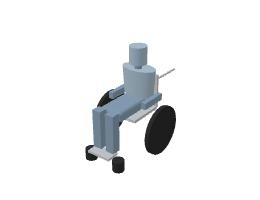
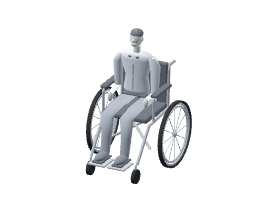
Add detailed architectural people, wheelchair and coloured branching trees

Changed region(s): [[0.3077, 0.12, 0.7385, 0.93]]

diff --git a/mvp/index.html b/mvp/index.html
@@ -11,7 +11,7 @@
 <link rel="stylesheet" href="https://fonts.googleapis.com/css2?family=Inter:wght@400;500;600;700;800&family=Space+Mono:wght@400;700&display=swap">
 <link rel="stylesheet" href="css/structure-study.css?v=structural-study-20261028-1">
 <link rel="stylesheet" href="css/mvp.css?v=light-only-20261028-1">
-<script type="importmap">{"imports":{"./js/study-ui/stage.js?v=light-only-20261028-1":"./js/study-ui/stage.js?v=light-only-20261028-1","three":"https://cdn.jsdelivr.net/npm/three@0.170.0/build/three.module.js","three/addons/":"https://cdn.jsdelivr.net/npm/three@0.170.0/examples/jsm/","../furniture/models.js":"../furniture/models.js?v=furniture-detail-20261027-1","../furniture/geom.js":"../furniture/geom.js?v=furniture-detail-20261027-1","./js/furn3d.js":"./js/furn3d.js?v=furniture-detail-20261027-1","./js/studio-bridge.js":"./js/studio-bridge.js?v=import-feedback-20261027-1"}}</script>
+<script type="importmap">{"imports":{"./js/study-ui/stage.js?v=light-only-20261028-1":"./js/study-ui/stage.js?v=light-only-20261028-1","three":"https://cdn.jsdelivr.net/npm/three@0.170.0/build/three.module.js","three/addons/":"https://cdn.jsdelivr.net/npm/three@0.170.0/examples/jsm/","../furniture/models.js":"../furniture/models.js?v=entourage-20261102-1","../furniture/geom.js":"../furniture/geom.js?v=entourage-20261102-1","./js/furn3d.js":"./js/furn3d.js?v=entourage-20261102-1","./js/studio-bridge.js":"./js/studio-bridge.js?v=import-feedback-20261027-1"}}</script>
 
 <link rel="stylesheet" href="../ui/tokens.css?v=home-palette-20261102-1" data-pc-ui-assets>
 <link rel="stylesheet" href="../ui/components.css?v=light-only-20261028-1" data-pc-ui-assets>
@@ -45,7 +45,7 @@
   </div>
 </header>
 <main id="app" tabindex="-1"></main>
-<script type="importmap">{"imports":{"./js/onboarding.js":"./js/onboarding.js?v=cmp-20261101-1","./js/pages/project.js":"./js/pages/project.js?v=cmp-20261101-1","./js/project-climate.js":"./js/project-climate.js?v=handoff-location-20261029-1","./js/pages/project-settings.js":"./js/pages/project-settings.js?v=handoff-20261028-1","./js/pages/project-map.js":"./js/pages/project-map.js?v=single-world-20261102-1","./js/pages/new-site.js":"./js/pages/new-site.js?v=epw-connected-20261027-3","./js/store.js":"./js/store.js?v=master-models-snow-20261031-3","./js/data.js":"./js/data.js?v=master-models-snow-20261031-3","./js/export3d.js":"./js/export3d.js?v=import-feedback-20261027-1","./js/viewport.js":"./js/viewport.js?v=light-only-20261028-1","./js/pages/workspace-v2.js":"./js/pages/workspace-v2.js?v=dayrec-20261101-2","./js/pages/start-study.js":"./js/pages/start-study.js?v=panel-scroll-20261026-1","./js/study-readiness.js":"./js/study-readiness.js?v=environment-20261028-1","./js/pages/comparison-report.js":"./js/pages/comparison-report.js?v=panel-scroll-20261026-1","./js/comparison-report.js":"./js/comparison-report.js?v=panel-scroll-20261026-1","./js/comparison-report-data.js":"./js/comparison-report-data.js?v=environment-20261028-1","./js/comparison-evidence.js":"./js/comparison-evidence.js?v=handoff-20261028-1","./js/pages/home.js":"./js/pages/home.js?v=light-only-20261028-1","./js/app.js":"./js/app.js?v=guest-start-20261102-1","./js/pages/simulations.js":"./js/pages/simulations.js?v=master-models-snow-20261031-5","./js/pages/environment-study.js":"./js/pages/environment-study.js?v=light-only-20261028-1","./js/pages/structure-study.js":"./js/pages/structure-study.js?v=handoff-20261028-1","./js/pages/sim-engine.js":"./js/pages/sim-engine.js?v=wsonly-20261101-6","./js/pages/admin.js":"./js/pages/admin.js?v=founder-20261102-1","./js/pages/pricing.js":"./js/pages/pricing.js?v=founder-20261102-1","./js/batch.js":"./js/batch.js?v=panel-scroll-20261026-1","./js/beta-access.js":"./js/beta-access.js?v=founder-20261102-1","./js/cloud.js":"./js/cloud.js?v=founder-20261102-1","./js/pages/results.js":"./js/pages/results.js?v=wsonly-20261101-4","./js/pages/account.js":"./js/pages/account.js?v=public-launch-20261031-1","./js/pages/login.js":"./js/pages/login.js?v=public-launch-20261031-1","./js/pages/legal.js":"./js/pages/legal.js?v=public-launch-20261031-1","./js/pages/resources.js":"./js/pages/resources.js?v=free-res-20261101-1","./js/simulation-presentation.js":"./js/simulation-presentation.js?v=master-models-snow-20261031-3","./js/capabilities.js":"./js/capabilities.js?v=master-models-snow-20261031-3","./js/parameters.js":"./js/parameters.js?v=master-models-snow-20261031-3","./js/project-contract.js":"./js/project-contract.js?v=master-models-snow-20261031-3","./js/drift-wall.js":"./js/drift-wall.js?v=drift-compat-20261102-1","./js/workspace-chrome.js":"./js/workspace-chrome.js?v=master-models-snow-20261031-4","./js/pages/dashboard.js":"./js/pages/dashboard.js?v=public-launch-20261031-1","./js/pages/marketing-info.js":"./js/pages/marketing-info.js?v=founder-20261102-1","./js/pages/resource-tool.js":"./js/pages/resource-tool.js?v=resource-tools-20261031-1","./js/public-chrome.js":"./js/public-chrome.js?v=guest-start-20261102-1","./js/site-content.js":"./js/site-content.js?v=founder-20261102-1","./js/pages/founder.js":"./js/pages/founder.js?v=founder-20261102-1"}}</script>
+<script type="importmap">{"imports":{"./js/furn3d.js":"./js/furn3d.js?v=entourage-20261102-1","../furniture/models.js?v=furniture-detail-20261027-1":"../furniture/models.js?v=entourage-20261102-1","../furniture/geom.js?v=furniture-detail-20261027-1":"../furniture/geom.js?v=entourage-20261102-1","./js/onboarding.js":"./js/onboarding.js?v=cmp-20261101-1","./js/pages/project.js":"./js/pages/project.js?v=cmp-20261101-1","./js/project-climate.js":"./js/project-climate.js?v=handoff-location-20261029-1","./js/pages/project-settings.js":"./js/pages/project-settings.js?v=handoff-20261028-1","./js/pages/project-map.js":"./js/pages/project-map.js?v=single-world-20261102-1","./js/pages/new-site.js":"./js/pages/new-site.js?v=epw-connected-20261027-3","./js/store.js":"./js/store.js?v=master-models-snow-20261031-3","./js/data.js":"./js/data.js?v=master-models-snow-20261031-3","./js/export3d.js":"./js/export3d.js?v=import-feedback-20261027-1","./js/viewport.js":"./js/viewport.js?v=light-only-20261028-1","./js/pages/workspace-v2.js":"./js/pages/workspace-v2.js?v=entourage-20261102-1","./js/pages/start-study.js":"./js/pages/start-study.js?v=panel-scroll-20261026-1","./js/study-readiness.js":"./js/study-readiness.js?v=environment-20261028-1","./js/pages/comparison-report.js":"./js/pages/comparison-report.js?v=panel-scroll-20261026-1","./js/comparison-report.js":"./js/comparison-report.js?v=panel-scroll-20261026-1","./js/comparison-report-data.js":"./js/comparison-report-data.js?v=environment-20261028-1","./js/comparison-evidence.js":"./js/comparison-evidence.js?v=handoff-20261028-1","./js/pages/home.js":"./js/pages/home.js?v=light-only-20261028-1","./js/app.js":"./js/app.js?v=guest-start-20261102-1","./js/pages/simulations.js":"./js/pages/simulations.js?v=master-models-snow-20261031-5","./js/pages/environment-study.js":"./js/pages/environment-study.js?v=light-only-20261028-1","./js/pages/structure-study.js":"./js/pages/structure-study.js?v=handoff-20261028-1","./js/pages/sim-engine.js":"./js/pages/sim-engine.js?v=wsonly-20261101-6","./js/pages/admin.js":"./js/pages/admin.js?v=founder-20261102-1","./js/pages/pricing.js":"./js/pages/pricing.js?v=founder-20261102-1","./js/batch.js":"./js/batch.js?v=panel-scroll-20261026-1","./js/beta-access.js":"./js/beta-access.js?v=founder-20261102-1","./js/cloud.js":"./js/cloud.js?v=founder-20261102-1","./js/pages/results.js":"./js/pages/results.js?v=wsonly-20261101-4","./js/pages/account.js":"./js/pages/account.js?v=public-launch-20261031-1","./js/pages/login.js":"./js/pages/login.js?v=public-launch-20261031-1","./js/pages/legal.js":"./js/pages/legal.js?v=public-launch-20261031-1","./js/pages/resources.js":"./js/pages/resources.js?v=free-res-20261101-1","./js/simulation-presentation.js":"./js/simulation-presentation.js?v=master-models-snow-20261031-3","./js/capabilities.js":"./js/capabilities.js?v=master-models-snow-20261031-3","./js/parameters.js":"./js/parameters.js?v=master-models-snow-20261031-3","./js/project-contract.js":"./js/project-contract.js?v=master-models-snow-20261031-3","./js/drift-wall.js":"./js/drift-wall.js?v=drift-compat-20261102-1","./js/workspace-chrome.js":"./js/workspace-chrome.js?v=master-models-snow-20261031-4","./js/pages/dashboard.js":"./js/pages/dashboard.js?v=public-launch-20261031-1","./js/pages/marketing-info.js":"./js/pages/marketing-info.js?v=founder-20261102-1","./js/pages/resource-tool.js":"./js/pages/resource-tool.js?v=resource-tools-20261031-1","./js/public-chrome.js":"./js/public-chrome.js?v=guest-start-20261102-1","./js/site-content.js":"./js/site-content.js?v=founder-20261102-1","./js/pages/founder.js":"./js/pages/founder.js?v=founder-20261102-1"}}</script>
 <script type="module">import "./js/app.js";</script>
 <script type="module" src="../ui/laptop-layout.js?v=study-unified-20261028-1"></script>
 <link rel="stylesheet" href="css/resources.css?v=resource-tools-20261031-1">

diff --git a/furniture/site-assets.js b/furniture/site-assets.js
@@ -1,0 +1,109 @@
+// Original lightweight architectural entourage. Z-up millimetres; faces -Y.
+// Deterministic geometry keeps saved project dimensions and exports reproducible.
+const TAU=Math.PI*2;
+function loft(B,name,mat,rings,seg=12,layer='Body'){
+ if(rings.at(-1)[2]<rings[0][2])rings=[...rings].reverse();
+ B.parts.push({kind:'loft',name,layer,mat,rings,seg,cx:0,cy:0,cz:0});
+}
+function oval(B,name,mat,x,y,z,rx,ry,rz,layer='Body',seg=12){
+ const rings=Array.from({length:9},(_,i)=>{const a=-Math.PI/2+i*Math.PI/8,r=Math.max(.001,Math.cos(a));return[x,y,z+Math.sin(a)*rz,rx*r,ry*r];});
+ loft(B,name,mat,rings,seg,layer);
+}
+function limb(B,name,mat,points,radii){
+ loft(B,name,mat,points.map((p,i)=>[...p,radii[i],radii[i]*.85]),10);
+}
+function upperBody(B,H,{hip=.51,shoulder=.81,head=.91,y=0,lean=0,child=false,seated=false}={}){
+ const z=hip*H,t=shoulder*H,skin='personSkin',cloth='person';
+ loft(B,'Tailored shirt',cloth,[[0,y,z,.094*H,.055*H],[0,y,z+.035*H,.1*H,.062*H],[0,y+lean*.4,z+(t-z)*.45,.085*H,.053*H],[0,y+lean*.9,t-.035*H,.128*H,.063*H],[0,y+lean,t,.115*H,.052*H],[0,y+lean,t+.012*H,.035*H,.031*H]],16);
+ B.cyl('Neck','Body',skin,0,y+lean,t,.026*H,(seated?.06:.04)*H,{seg:12});
+ const hy=y+lean-.006*H,hz=head*H;
+ oval(B,'Head',skin,0,hy,hz,.045*H,.051*H,(1-head)*H);
+ oval(B,'Jaw',skin,0,hy-.016*H,hz-.035*H,.034*H,.036*H,.025*H);
+ oval(B,'Hair','personHair',0,hy+.005*H,hz+(1-head)*H*.45,.046*H,.05*H,(1-head)*H*.55);
+ oval(B,'Nose',skin,0,hy-.053*H,hz-.005*H,.01*H,.016*H,.012*H);
+ for(const s of [-1,1])oval(B,'Ear',skin,s*.045*H,hy,hz-.002*H,.008*H,.012*H,.017*H);
+ for(const s of [-1,1]){
+  const shoulderP=[s*.123*H,y+lean,t-.018*H];
+  const elbow=[s*.152*H,y-(s>0?.025:-.015)*H, seated?z+.03*H:.635*H];
+  const wrist=[s*.14*H,y-(seated?.14:.035)*H,seated?z+.012*H:.53*H];
+  limb(B,'Shirt sleeve',cloth,[[s*.112*H,y+lean,t-.015*H],[s*.145*H,y+lean*.4,t-.075*H],elbow],[.037*H,.038*H,.029*H]);
+  limb(B,'Forearm',skin,[elbow,[(elbow[0]+wrist[0])/2,(elbow[1]+wrist[1])/2,(elbow[2]+wrist[2])/2],wrist],[.027*H,.024*H,.018*H]);
+  oval(B,'Hand',skin,wrist[0],wrist[1],wrist[2]-.02*H,.02*H,.018*H,.036*H);
+  // Separate collar halves, button placket and hem make the body read as clothing.
+  B.prism('Shirt collar','Clothing','personTrim','xy',[[s*.008*H,y-.034*H],[s*.042*H,y-.053*H],[s*.025*H,y-.067*H]],t-.012*H,.009*H);
+ }
+ B.tube('Shirt placket','Clothing','personTrim',[[0,y-.063*H,z+.045*H],[0,y+lean-.058*H,t-.025*H]],.0025*H);
+ for(let i=0;i<4;i++)oval(B,'Shirt button','personTrim',0,y-.065*H+lean*i/4,z+.075*H+i*(t-z-.1*H)/4,.003*H,.002*H,.003*H,'Clothing',8);
+ if(!child)B.box('Belt','Clothing','personTrim',0,y,z-.009*H,.184*H,.112*H,.012*H,{r:.005*H});
+}
+export function standingFigure(B,H,o={}){
+ const child=!!o.headR,elderly=!!o.stoop,hip=child?.48:.51,shoulder=child?.79:.83,head=child?.905:.935,lean=elderly?-.03*H:0;
+ upperBody(B,H,{hip,shoulder,head,lean,child});
+ for(const s of [-1,1]){
+  const step=s*.025*H,x=s*.052*H;
+  limb(B,'Trouser leg','personDk',[[x,0,hip*H],[x,step*.6,.43*H],[x,step,.29*H],[x,step*.8,.17*H],[x,step,.045*H]],[.056*H,.05*H,.037*H,.033*H,.029*H]);
+  B.box('Shoe sole','Clothing','personTrim',x,step-.025*H,0,.07*H,.145*H,.013*H,{r:.006*H});
+  oval(B,'Shoe upper','personShoe',x,step-.025*H,.028*H,.037*H,.075*H,.025*H,'Clothing');
+ }
+ if(elderly){
+  // A restrained lean, silver hair and glasses, without exaggerated frailty.
+  const hz=head*H,hy=lean-.006*H;
+  for(const p of B.parts)if(p.name==='Hair')p.mat='personSilver';
+  for(const s of [-1,1])B.tube('Glasses','Clothing','personTrim',Array.from({length:13},(_,i)=>{const a=i*TAU/12;return[s*.022*H+Math.cos(a)*.017*H,hy-.052*H,hz+.006*H+Math.sin(a)*.012*H];}),.0015*H);
+  B.tube('Glasses bridge','Clothing','personTrim',[[-.006*H,hy-.053*H,hz+.006*H],[.006*H,hy-.053*H,hz+.006*H]],.0015*H);
+ }
+ return B.parts;
+}
+export function wheelchairFigure(B,H){
+ const wr=300;
+ B.box('Seat cushion','Chair','personTrim',0,0,480,450,430,50,{r:20});
+ B.box('Upholstered back','Chair','personTrim',0,220,520,440,50,380,{r:18});
+ for(const s of [-1,1]){
+  const x=s*350;
+  const ring=(name,r,mat,t)=>B.prism(name,'Wheels',mat,'yz',Array.from({length:40},(_,i)=>[85+r*Math.cos(i*TAU/40),wr+r*Math.sin(i*TAU/40)]),x-t/2,t,[Array.from({length:40},(_,i)=>[85+(r-14)*Math.cos(-i*TAU/40),wr+(r-14)*Math.sin(-i*TAU/40)])]);
+  ring('Pneumatic tyre',wr,'tyre',35);ring('Wheel rim',wr-20,'steel',16);ring('Push rim',wr-45,'steel',12);
+  for(let i=0;i<12;i++){const a=i*TAU/12;B.tube('Wheel spoke','Wheels','steel',[[x,85,wr],[x,85+(wr-23)*Math.cos(a),wr+(wr-23)*Math.sin(a)]],3);}
+  oval(B,'Axle hub','steel',x,85,wr,22,22,22,'Wheels');
+  B.tube('Frame rail','Chair','steel',[[s*225,-400,170],[s*225,-170,450],[s*225,200,480],[s*225,225,880],[s*225,330,880]],14);
+  B.tube('Armrest support','Chair','steel',[[s*245,-120,480],[s*245,-120,700],[s*245,210,700]],12);
+  B.box('Arm pad','Chair','personTrim',s*245,30,700,65,310,28,{r:12});
+  B.prism('Front caster','Wheels','tyre','yz',Array.from({length:20},(_,i)=>[-420+65*Math.cos(i*TAU/20),65+65*Math.sin(i*TAU/20)]),s*220-15,30);
+  B.tube('Caster fork','Chair','steel',[[s*220,-420,65],[s*220,-420,160],[s*220,-340,240]],9);
+  B.box('Footplate','Chair','steel',s*95,-470,155,170,190,18,{r:8});
+ }
+ B.tube('Cross brace','Chair','steel',[[-225,-140,220],[225,180,470]],12);B.tube('Cross brace','Chair','steel',[[225,-140,220],[-225,180,470]],12);
+ // Rider dimensions scale above the fixed seat so the feet remain on footplates.
+ const torsoScale=H;
+ upperBody(B,torsoScale,{hip:650/torsoScale,shoulder:(H-230)/torsoScale,head:.935,y:45,seated:true});
+ for(const s of [-1,1]){
+  limb(B,'Seated trouser leg','personDk',[[s*95,80,585],[s*95,-120,590],[s*95,-340,560],[s*95,-355,380],[s*95,-390,215]],[80,75,65,49,43]);
+  B.box('Shoe sole','Clothing','personTrim',s*95,-450,175,100,200,18,{r:8});oval(B,'Shoe','personShoe',s*95,-450,210,52,100,35,'Clothing');
+ }
+ return B.parts;
+}
+export function landscapeTree(B,H,C,getBounds){
+ let state=137;const rand=()=>{state=(Math.imul(state,1664525)+1013904223)>>>0;return state/4294967296;};
+ const R=C/2,tr=Math.max(60,C*.027);
+ loft(B,'Tapered trunk','trunk',[[0,0,0,tr*1.35,tr*1.2],[tr*.2,0,H*.2,tr,tr*.9],[-tr*.15,tr*.2,H*.42,tr*.65,tr*.6],[0,0,H*.66,tr*.25,tr*.23]],12,'Tree');
+ for(let i=0;i<22;i++){
+  const a=i*2.399963,z=H*(.46+.43*rand()),spread=Math.sin((z/H-.35)/.65*Math.PI)*R*.72;
+  const x=Math.cos(a)*spread,y=Math.sin(a)*spread,base=[0,0,H*(.29+.18*rand())];
+  B.tube('Primary branch','Tree','trunk',[base,[x*.45,y*.45,z*.8],[x,y,z]],tr*(.18+.12*rand()));
+  const clusterR=R*(.19+.09*rand());
+  for(let j=0;j<48;j++){
+   const az=rand()*TAU,u=rand()*2-1,r=clusterR*Math.cbrt(rand()),q=Math.sqrt(1-u*u);
+   const lx=x+Math.cos(az)*q*r,ly=y+Math.sin(az)*q*r,lz=Math.min(H-12,z+u*r*.8),sz=Math.min(C*.035,140)*( .65+rand()*.7),ang=rand()*TAU;
+   const along=[Math.cos(ang)*sz,Math.sin(ang)*sz],side=[-along[1]*.4,along[0]*.4];
+   // Folded leaf blades, green tonal variation and air gaps, rather than solid balls.
+   const points=[[lx-along[0],ly-along[1]],[lx+side[0],ly+side[1]],[lx+along[0],ly+along[1]],[lx-side[0],ly-side[1]]];
+   B.prism('Leaf blade','Foliage',['leaf','leafDk','leafLight','leafMid'][Math.floor(rand()*4)],'xy',points,Math.max(H*.32,lz),Math.max(2,sz*.05));
+  }
+ }
+ const b=getBounds(B.parts),sx=C/(b[3]-b[0]),sy=C/(b[4]-b[1]),sz=H/(b[5]-b[2]);
+ for(const p of B.parts){
+  if(p.kind==='loft')p.rings=p.rings.map(([x,y,z,rx,ry])=>[x*sx,y*sy,z*sz,rx*sx,ry*sy]);
+  else if(p.kind==='tube'){p.pts=p.pts.map(([x,y,z])=>[x*sx,y*sy,z*sz]);p.r*=Math.min(sx,sy,sz);}
+  else if(p.kind==='prism'){p.pts=p.pts.map(([x,y])=>[x*sx,y*sy]);p.a0*=sz;p.t*=sz;}
+ }
+ return B.parts;
+}

diff --git a/furniture/models.js b/furniture/models.js
@@ -1,8 +1,9 @@
+import {standingFigure,wheelchairFigure,landscapeTree} from './site-assets.js?v=entourage-20261102-1';
 // PlotCloud furniture configurator — parametric base models.
 // Units: millimetres. Axes: Z up, X = width, Y = depth, front faces -Y.
 // After building, every model is moved so the origin sits at the bottom centre of its footprint.
-import { refineFurniture, DETAIL_FAMILIES, STORAGE_FAMILIES } from './furniture-details.js?v=furniture-detail-20261027-1';
-import { studioModels } from './studio-models.js?v=furniture-detail-20261027-1';
+import { refineFurniture, DETAIL_FAMILIES, STORAGE_FAMILIES } from './furniture-details.js?v=entourage-20261102-1';
+import { studioModels } from './studio-models.js?v=entourage-20261102-1';
 
 export const COLORS = {
   fabric: [
@@ -57,6 +58,7 @@ export function makeBuilder() {
 }
 
 function partBounds(p) {
+  if(p.kind==='loft'){const xs=p.rings.map(q=>[q[0]-q[3],q[0]+q[3]]).flat(),ys=p.rings.map(q=>[q[1]-q[4],q[1]+q[4]]).flat(),zs=p.rings.map(q=>q[2]);return[p.cx+Math.min(...xs),p.cy+Math.min(...ys),p.cz+Math.min(...zs),p.cx+Math.max(...xs),p.cy+Math.max(...ys),p.cz+Math.max(...zs)];}
   if(p.kind==='lathe'){const r=Math.max(...p.profile.map(q=>q[0])),zs=p.profile.map(q=>q[1]);return[p.cx-r,p.cy-r*p.depthScale,p.cz+Math.min(...zs),p.cx+r,p.cy+r*p.depthScale,p.cz+Math.max(...zs)];}
   if (p.kind === 'prism') {
     const us = p.pts.map((q) => q[0]), vs = p.pts.map((q) => q[1]);
@@ -871,21 +873,11 @@ export const MODELS = [
 ];
 
 // ===== Accessories (2026-10-19): simple scale-reference pieces — fence, people, pets, vehicles, wall decor, plants, entry. Blocks only, not realistic models. =====
-// People are one fixed light grey-blue, plants one fixed green, so they read at a glance as "not building".
-Object.assign(FIXED_MATS, { person: '#9fb4c6', personDk: '#7f96ab', fur: '#c9b79c', furDk: '#8a7660', car: '#aeb6bd', tyre: '#2b2c2e', leaf: '#5d9448', leafDk: '#47763a', trunk: '#7b5b3c', pot: '#bdb6a8', art: '#cfd8df', gold: '#b8a679' });
+// Neutral architectural people and naturally coloured foliage share the model/export pipeline.
+Object.assign(FIXED_MATS, { person: '#d4d7dc', personDk: '#a6abb3', personSkin:'#deded9', personHair:'#767b82', personSilver:'#c8ccd0', personTrim:'#676d76', personShoe:'#858a92', leafLight:'#87ac57', leafMid:'#6d984d', fur: '#c9b79c', furDk: '#8a7660', car: '#aeb6bd', tyre: '#2b2c2e', leaf: '#5d9448', leafDk: '#47763a', trunk: '#7b5b3c', pot: '#bdb6a8', art: '#cfd8df', gold: '#b8a679' });
 const circ = (r, n = 20) => Array.from({ length: n }, (_, i) => [r * Math.cos(i / n * 2 * Math.PI), r * Math.sin(i / n * 2 * Math.PI)]);
 // a standing figure of overall height H: legs, torso (elliptical from above, like the usual plan symbol), arms, neck, head
-function standingPerson(H, o = {}) {
-  const B = makeBuilder(), hr = (o.headR || 0.062) * H, stoop = (o.stoop || 0) * H;
-  const legH = 0.5 * H, torsoTop = 0.82 * H;
-  for (const sx of [-1, 1]) B.cyl('Leg', 'Body', 'personDk', sx * 0.05 * H, 0, 0, 0.042 * H, legH);
-  B.cyl('Torso', 'Body', 'person', 0, 0, legH, 0.13 * H, torsoTop - legH, { ry: 0.075 * H, taper: 0.86 });
-  for (const sx of [-1, 1]) B.cyl('Arm', 'Body', 'personDk', sx * 0.165 * H, 0, 0.52 * H, 0.027 * H, 0.29 * H);
-  const headH = 2 * hr, neckH = Math.max(0.02 * H, H - headH - torsoTop);
-  B.cyl('Neck', 'Body', 'personDk', 0, -stoop / 2, torsoTop, 0.028 * H, neckH);
-  B.cyl('Head', 'Body', 'person', 0, -stoop, H - headH, hr, headH, { seg: 24 });
-  return B.parts;
-}
+function standingPerson(H,o={}) { return standingFigure(makeBuilder(),H,o); }
 const personModel = (id, name, kw, def, min, max, o = {}) => ({
   id, cat: 'People', group: 'People', kw, name, en: name, colors: [],
   params: [{ k: 'H', label: 'Height', min, max, step: 10, def }],
@@ -939,14 +931,12 @@ function buildRailing(p) {
 }
 function buildPlant(p, tree) {
   const B = makeBuilder(), C = p.crown, H = p.H;
+  if(tree)return landscapeTree(B,H,C,bounds);
   if (!tree) {
     const potR = Math.min(Math.max(C * 0.3, 90), 220), potH = Math.min(H * 0.3, 320);
     B.cyl('Pot', 'Pot', 'pot', 0, 0, 0, potR, potH, { taper: 0.72 });
     B.cyl('Stem', 'Plant', 'trunk', 0, 0, potH, 14, H * 0.4);
     const fy = potH + H * 0.2, fh = H - fy; B.cyl('Foliage low', 'Plant', 'leafDk', 0, 0, fy, C / 2, fh * 0.55, { seg: 20, taper: 0.7 }); B.cyl('Foliage top', 'Plant', 'leaf', 0, 0, fy + fh * 0.45, C * 0.36, fh * 0.55, { seg: 20, taper: 0.55 });
-  } else {
-    const tr = Math.max(80, C * 0.03), th = H * 0.4; B.cyl('Trunk', 'Tree', 'trunk', 0, 0, 0, tr, th, { taper: 1.25 });
-    const ch = H - th * 0.8; B.cyl('Crown low', 'Tree', 'leafDk', 0, 0, th * 0.8, C / 2, ch * 0.6, { seg: 28, taper: 0.75 }); B.cyl('Crown top', 'Tree', 'leaf', 0, 0, th * 0.8 + ch * 0.4, C * 0.34, ch * 0.6, { seg: 28, taper: 0.5 });
   }
   return B.parts;
 }
@@ -981,23 +971,7 @@ function buildDog(p) {
   else { B.box('Haunch', 'Body', 'fur', 0, 120 * s, 0, 260 * s, 300 * s, 260 * s, { r: 70 * s }); B.box('Chest', 'Body', 'fur', 0, -60 * s, 0, 200 * s, 220 * s, 420 * s, { r: 60 * s }); B.box('Head', 'Body', 'fur', 0, -90 * s, 400 * s, 150 * s, 200 * s, 170 * s, { r: 40 * s }); B.box('Tail', 'Body', 'furDk', 0, 300 * s, 0, 40 * s, 120 * s, 40 * s, { r: 15 * s }); }
   return B.parts;
 }
-function buildWheelchair(p) {   // 800 × 1200 mm on the floor; the rider is seated, front towards -y
-  const B = makeBuilder(), W = 800, D = 1200, H = p.H, wr = 300, hr = 105, neckTop = H - 2 * hr, torsoTop = neckTop - 60;
-  B.box('Seat', 'Chair', 'steel', 0, 0, 480, 460, 440, 40, { r: 8 }); B.box('Backrest', 'Chair', 'steel', 0, 230, 500, 460, 30, 420, { r: 8 });
-  for (const sx of [-1, 1]) {
-    B.prism('Wheel', 'Wheels', 'tyre', 'yz', circ(wr, 24).map(([a, b]) => [100 + a, wr + b]), sx > 0 ? W / 2 - 50 : -W / 2, 50);
-    B.cyl('Caster', 'Wheels', 'tyre', sx * 200, -D / 2 + 110, 0, 70, 130);
-    B.tube('Push bar', 'Chair', 'steel', [[sx * 230, 230, 880], [sx * 230, D / 2 - 12, 880]], 12);
-  }
-  B.box('Footrest', 'Chair', 'steel', 0, -D / 2 + 80, 150, 300, 160, 30);
-  B.box('Thighs', 'Body', 'personDk', 0, -120, 520, 300, 520, 130, { r: 40 });
-  for (const sx of [-1, 1]) B.box('Shin', 'Body', 'personDk', sx * 90, -D / 2 + 150, 190, 110, 110, 470);
-  B.cyl('Torso', 'Body', 'person', 0, 170, 650, 221, Math.max(150, torsoTop - 650), { ry: 127, taper: 0.9 });
-  B.cyl('Neck', 'Body', 'personDk', 0, 150, torsoTop, 45, neckTop - torsoTop);
-  B.cyl('Head', 'Body', 'person', 0, 150, neckTop, hr, 2 * hr, { seg: 24 });
-  for (const sx of [-1, 1]) B.box('Arm', 'Body', 'personDk', sx * 235, 100, 600, 60, 340, 80);
-  return B.parts;
-}
+function buildWheelchair(p) { return wheelchairFigure(makeBuilder(),p.H); }
 
 const ACC = [
   { id: 'balcony_rail', cat: 'Outdoor & Fence', group: 'Outdoor & Fence', kw: 'fence railing balcony guard outdoor', name: 'Balcony railing', en: 'Balcony railing', colors: [],

diff --git a/mvp/js/pages/workspace-v2.js b/mvp/js/pages/workspace-v2.js
@@ -29,7 +29,7 @@ import { importModel } from '../viewport.js';
 import { previewImport } from '../import-preview.js?v=ipv-20261031-4';
 import { createViewport2,levelsOf } from '../viewport2.js';
 import { FORMATS, make as makeExport } from '../export3d.js';
-import { MODELS, GROUPS } from '../../../furniture/models.js?v=furniture-detail-20261027-1';   // Plan Studio's parametric furniture: the same ids Plan Studio places
+import { MODELS, GROUPS } from '../../../furniture/models.js?v=entourage-20261102-1';   // Plan Studio's parametric furniture: the same ids Plan Studio places
 import { TOOL_ICONS } from '../tool-icons.js?v=landscape-20261031-1';
 import { toStudio } from '../studio-convert.js';
 
@@ -520,7 +520,7 @@ export function render(app, [pid]) {
     const t0 = siteMode() && UI.panel === 'mass' ? CONTEXT_TOOL : TOOLS[UI.panel], mine = UI.panel === 'furniture' ? myFurn() : null;
     const t = mine ? { ...t0, sections: [['My furniture', ['\u0000import', ...mine.map((x) => '\u0000' + x.id)]], ...t0.sections] } : t0;   // your own pieces first (2026-10-25)
     const tile = (n) => { if (n === '\u0000import') return `<button type="button" class="w2-card w3-impf" data-tool="Import furniture" data-impfurn="1" aria-pressed="false" title="Import a piece of furniture (.obj, .glb, .stl, .3dm): it joins My furniture and can be placed like the others"><span class="im"><svg viewBox="0 0 48 48" width="44" height="44" fill="none" stroke="currentColor" stroke-width="2" stroke-linecap="round" stroke-linejoin="round" aria-hidden="true"><path d="M14 28v-6a4 4 0 0 1 4-4h12a4 4 0 0 1 4 4v6"/><path d="M10 30a3 3 0 0 1 6 0v4h16v-4a3 3 0 0 1 6 0v8H10z"/><path d="M24 4v10M19 9l5 5 5-5"/></svg></span><span>Import furniture</span></button>`;
-      if (n[0] === '\u0000') { const x = mine.find((q) => '\u0000' + q.id === n); return `<button type="button" class="w2-card" data-tool="${esc(x.name)}" data-myfurn="${x.id}" aria-pressed="false" title="${esc(x.name)} · ${x.w} × ${x.d} × ${x.h} m: click it, then click in the current view to place it (R turns it)"><span class="im"><img src="${x.thumb || ''}" alt="" loading="lazy"></span><span>${esc(x.name)}<i class="w3-mfx" data-myfx="${x.id}" role="button" tabindex="0" title="Remove ${esc(x.name)} from My furniture" aria-label="Remove ${esc(x.name)} from My furniture">×</i></span></button>`; } if (t.cards) { const m = FURN_BY_NAME.get(n); return `<button type="button" class="w2-card" data-tool="${esc(n)}" data-furn="${m.id}" aria-pressed="false" title="${esc(n)}: click it, then click in the current view to place it"><span class="im"><img src="img/furniture/${m.id}.png?v=furniture-detail-20261027-1" alt="" loading="lazy"></span><span>${esc(n)}</span></button>`; }
+      if (n[0] === '\u0000') { const x = mine.find((q) => '\u0000' + q.id === n); return `<button type="button" class="w2-card" data-tool="${esc(x.name)}" data-myfurn="${x.id}" aria-pressed="false" title="${esc(x.name)} · ${x.w} × ${x.d} × ${x.h} m: click it, then click in the current view to place it (R turns it)"><span class="im"><img src="${x.thumb || ''}" alt="" loading="lazy"></span><span>${esc(x.name)}<i class="w3-mfx" data-myfx="${x.id}" role="button" tabindex="0" title="Remove ${esc(x.name)} from My furniture" aria-label="Remove ${esc(x.name)} from My furniture">×</i></span></button>`; } if (t.cards) { const m = FURN_BY_NAME.get(n); return `<button type="button" class="w2-card" data-tool="${esc(n)}" data-furn="${m.id}" aria-pressed="false" title="${esc(n)}: click it, then click in the current view to place it"><span class="im"><img src="img/furniture/${m.id}.png?v=entourage-20261102-1" alt="" loading="lazy"></span><span>${esc(n)}</span></button>`; }
       const ic = TOOL_ICONS[n], k = TMAP[n]?.key; return `<button type="button" class="w2-tile" data-tool="${esc(n)}" aria-pressed="false" title="${esc(n)}${k ? ` (${k})` : ''}"><span class="im">${ic?.img ? `<img src="${ic.img}" alt="">` : ic?.svg || ''}</span><span>${esc(n)}${k ? ` <em>(${k})</em>` : ''}</span></button>`; };
     const many = t.sections.length > 1, oi = Math.min(UI.acc[UI.panel] ?? (mine&&!mine.length?1:0), t.sections.length - 1);
     host.innerHTML = `<div class="pane w2-tools"><h2>${t.label}</h2>${t.sections.map(([h, items], i) => `<div class="w2-sec${i === oi ? ' w3-fit' : ''}">${many ? `<button type="button" class="w3-acc" data-acc="${i}" aria-expanded="${i === oi}"><span>${i === oi ? '▾' : '▸'} ${esc(h)}</span><small>${items.length}</small></button>` : `<h3>${esc(h)}</h3>`}${i === oi ? `<div class="w2-grid">${items.map(tile).join('')}</div>` : ''}</div>`).join('')}

diff --git a/furniture/geom.js b/furniture/geom.js
@@ -4,6 +4,13 @@ import { RoundedBoxGeometry } from 'three/addons/geometries/RoundedBoxGeometry.j
 
 export function partGeometry(p) {
   let g;
+  if(p.kind==='loft'){
+    const n=p.seg||12,pos=[],idx=[];
+    for(const [x,y,z,rx,ry] of p.rings)for(let j=0;j<n;j++){const a=j/n*Math.PI*2;pos.push(x+Math.cos(a)*rx,y+Math.sin(a)*ry,z);}
+    for(let i=0;i<p.rings.length-1;i++)for(let j=0;j<n;j++){const a=i*n+j,b=i*n+(j+1)%n,c=b+n,d=a+n;idx.push(a,b,d,b,c,d);}
+    for(let j=1;j<n-1;j++){idx.push(0,j+1,j);const b=(p.rings.length-1)*n;idx.push(b,b+j,b+j+1);}
+    g=new THREE.BufferGeometry();g.setAttribute('position',new THREE.Float32BufferAttribute(pos,3));g.setIndex(idx);g.computeVertexNormals();g.translate(p.cx,p.cy,p.cz);return g;
+  }
   if(p.kind==='lathe'){
     g=new THREE.LatheGeometry(p.profile.map(q=>new THREE.Vector2(q[0],q[1])),64);
     g.rotateX(Math.PI/2);g.scale(1,p.depthScale,1);g.translate(p.cx,p.cy,p.cz);return g;
@@ -52,7 +59,7 @@ export function triangles(g) {
 
 // Can this part be written to Rhino as a true NURBS solid?
 export function isNurbsable(p) {
-  if (p.kind === 'tube'||p.kind==='lathe'||p.holes?.length) return false;
+  if (p.kind === 'tube'||p.kind==='lathe'||p.kind==='loft'||p.holes?.length) return false;
   if (p.kind === 'prism') return true;
   if (p.kind === 'box') return !(p.round > 1 && Math.min(p.round, Math.min(p.w, p.d, p.h) / 2 - 0.5) > 1);
   return p.ry === p.r && p.taper === 1;

diff --git a/emb/modeler.html b/emb/modeler.html
@@ -844,7 +844,7 @@ table.exs{width:100%;border-collapse:collapse;font:12px var(--f-body)}table.exs 
 
 
 <script type="importmap">
-{ "imports": { "three": "./furniture/three.module.min.js", "three/addons/": "./furniture/addons/", "three/addons/exporters/OBJExporter.js": "https://cdn.jsdelivr.net/npm/three@0.169.0/examples/jsm/exporters/OBJExporter.js", "fflate": "./furniture/fflate.js", "pc/models.js": "./furniture/models.js?v=furniture-detail-20261027-1", "pc/geom.js": "./furniture/geom.js?v=furniture-detail-20261027-1", "pc/": "./furniture/", "pc-base/": "./furniture/", "pc-doors/": "./doors/", "pc-stairs/": "./stairs/" } }
+{ "imports": { "three": "./furniture/three.module.min.js", "three/addons/": "./furniture/addons/", "three/addons/exporters/OBJExporter.js": "https://cdn.jsdelivr.net/npm/three@0.169.0/examples/jsm/exporters/OBJExporter.js", "fflate": "./furniture/fflate.js", "pc/models.js": "./furniture/models.js?v=entourage-20261102-1", "pc/geom.js": "./furniture/geom.js?v=entourage-20261102-1", "pc/": "./furniture/", "pc-base/": "./furniture/", "pc-doors/": "./doors/", "pc-stairs/": "./stairs/" } }
 </script>
 <script src="studio-geometry.js?v=20261021-drawing1"></script>
 <script type="module">

diff --git a/emb/furniture.html b/emb/furniture.html
@@ -207,7 +207,7 @@ input[type="range"] { width: 100%; accent-color: var(--accent); margin: 0; }
 </div>
 
 <script type="importmap">
-{"imports":{"three":"../furniture/three.module.min.js","three/addons/":"../furniture/addons/","fflate":"../furniture/fflate.js","pc/models.js":"../furniture/models.js?v=furniture-detail-20261027-1","pc/geom.js":"../furniture/geom.js?v=furniture-detail-20261027-1","pc/exporters.js":"../furniture/exporters.js?v=furniture-detail-20261027-1","pc/":"../furniture/","pc/i18n.js":"../furniture/i18n.js?v=resource-tools-20261031-1","../furniture/i18n.js":"../furniture/i18n.js?v=resource-tools-20261031-1"}}
+{"imports":{"three":"../furniture/three.module.min.js","three/addons/":"../furniture/addons/","fflate":"../furniture/fflate.js","pc/models.js":"../furniture/models.js?v=entourage-20261102-1","pc/geom.js":"../furniture/geom.js?v=entourage-20261102-1","pc/exporters.js":"../furniture/exporters.js?v=entourage-20261102-1","pc/":"../furniture/","pc/i18n.js":"../furniture/i18n.js?v=resource-tools-20261031-1","../furniture/i18n.js":"../furniture/i18n.js?v=resource-tools-20261031-1"}}
 </script>
 <script type="module">
 import * as THREE from 'three';

diff --git a/mvp/js/furn3d.js b/mvp/js/furn3d.js
@@ -2,8 +2,8 @@
 // the mesh is rebuilt from furniture/models.js + furniture/geom.js (the same code Plan Studio uses), so nothing heavy is saved.
 import './pc-en.js';
 import * as THREE from 'three';
-import { MODELS, defaults, buildModel, paramVisible, materialColor } from '../../furniture/models.js?v=furniture-detail-20261027-1';
-import { partGeometry } from '../../furniture/geom.js?v=furniture-detail-20261027-1';
+import { MODELS, defaults, buildModel, paramVisible, materialColor } from '../../furniture/models.js?v=entourage-20261102-1';
+import { partGeometry } from '../../furniture/geom.js?v=entourage-20261102-1';
 import { t } from '../../furniture/i18n.js';
 
 export const furnModel = (id) => MODELS.find((m) => m.id === id) || null;

diff --git a/furniture/exporters.js b/furniture/exporters.js
@@ -1,6 +1,6 @@
 // Exporters. All geometry is in millimeters, Z up, origin at the bottom center.
-import { partGeometry, triangles, isNurbsable } from './geom.js?v=furniture-detail-20261027-1';
-import { materialColor } from './models.js?v=furniture-detail-20261027-1';
+import { partGeometry, triangles, isNurbsable } from './geom.js?v=entourage-20261102-1';
+import { materialColor } from './models.js?v=entourage-20261102-1';
 import { LANG } from './i18n.js';
 
 const hexRgb = (h) => [1, 3, 5].map((i) => parseInt(h.slice(i, i + 2), 16));
